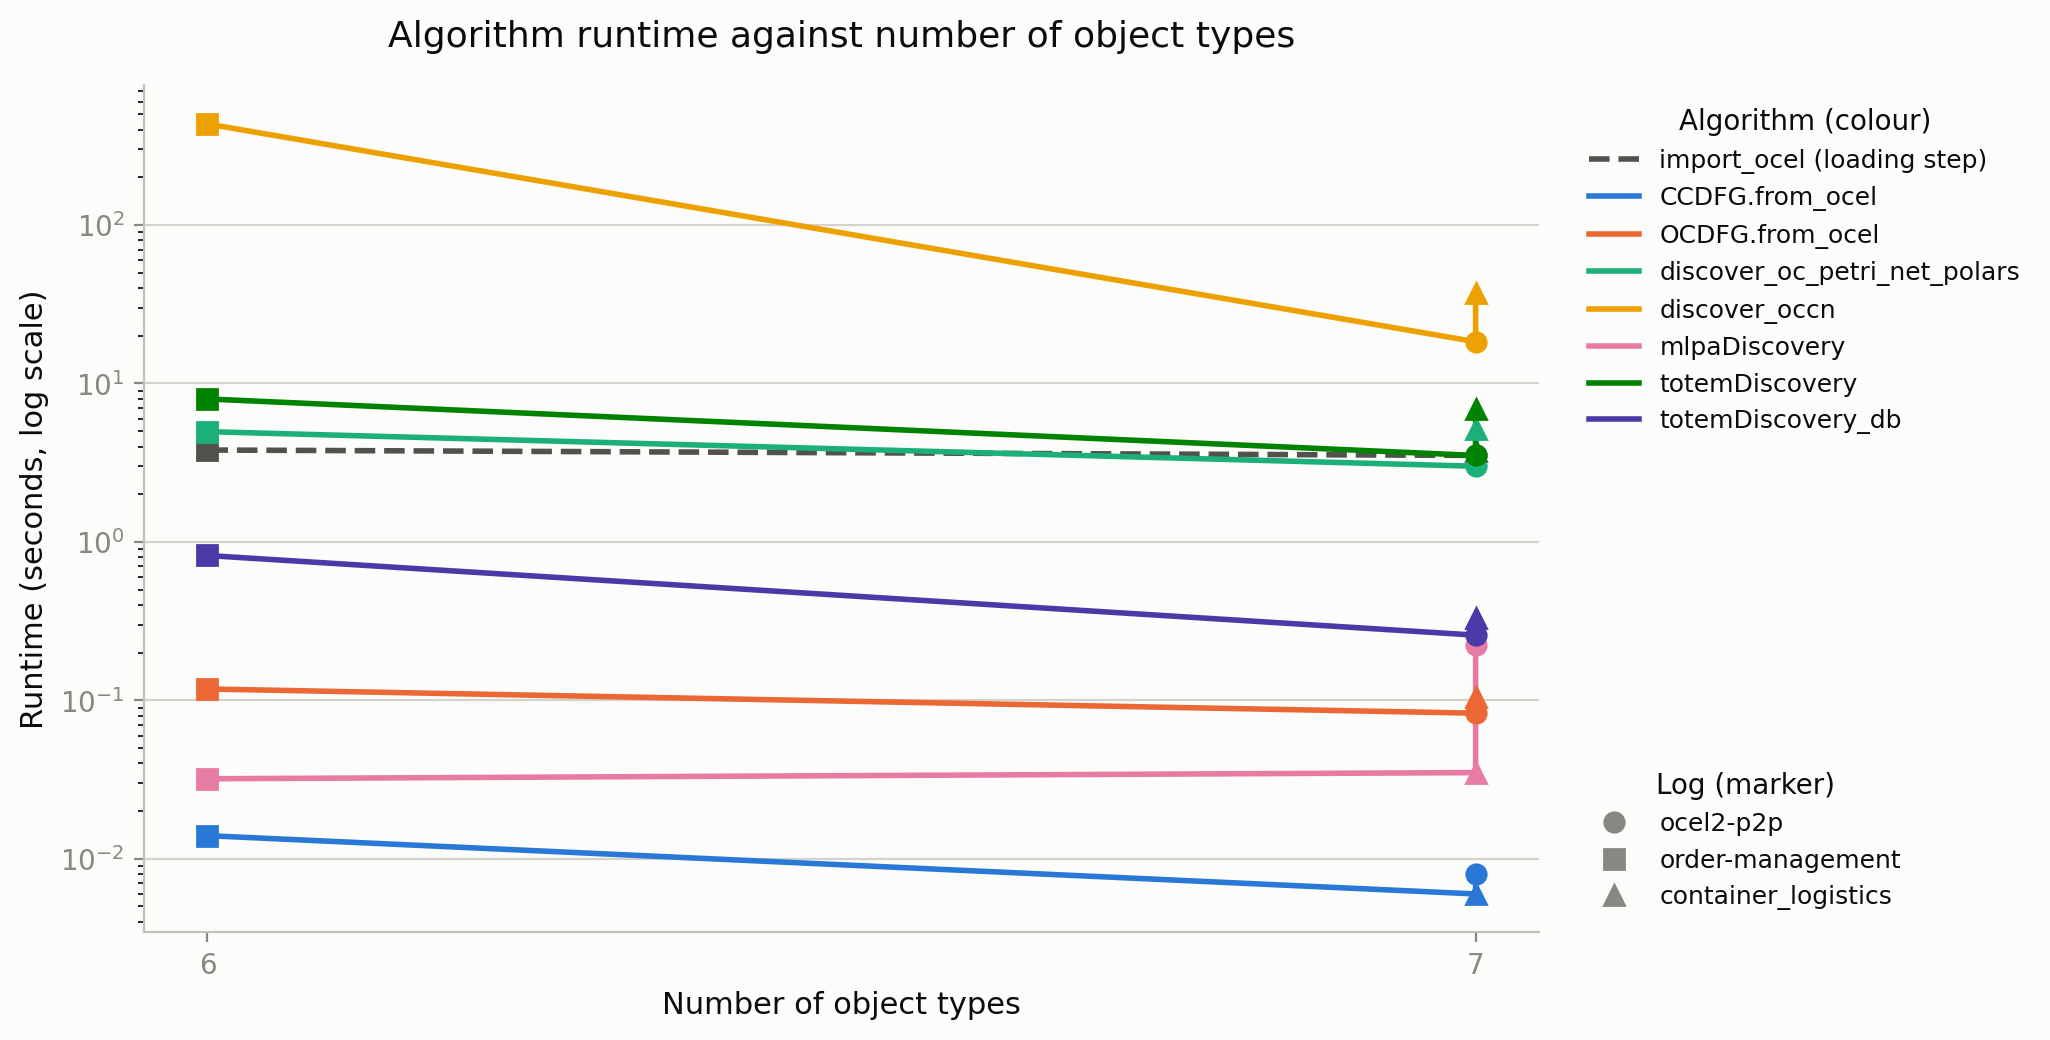
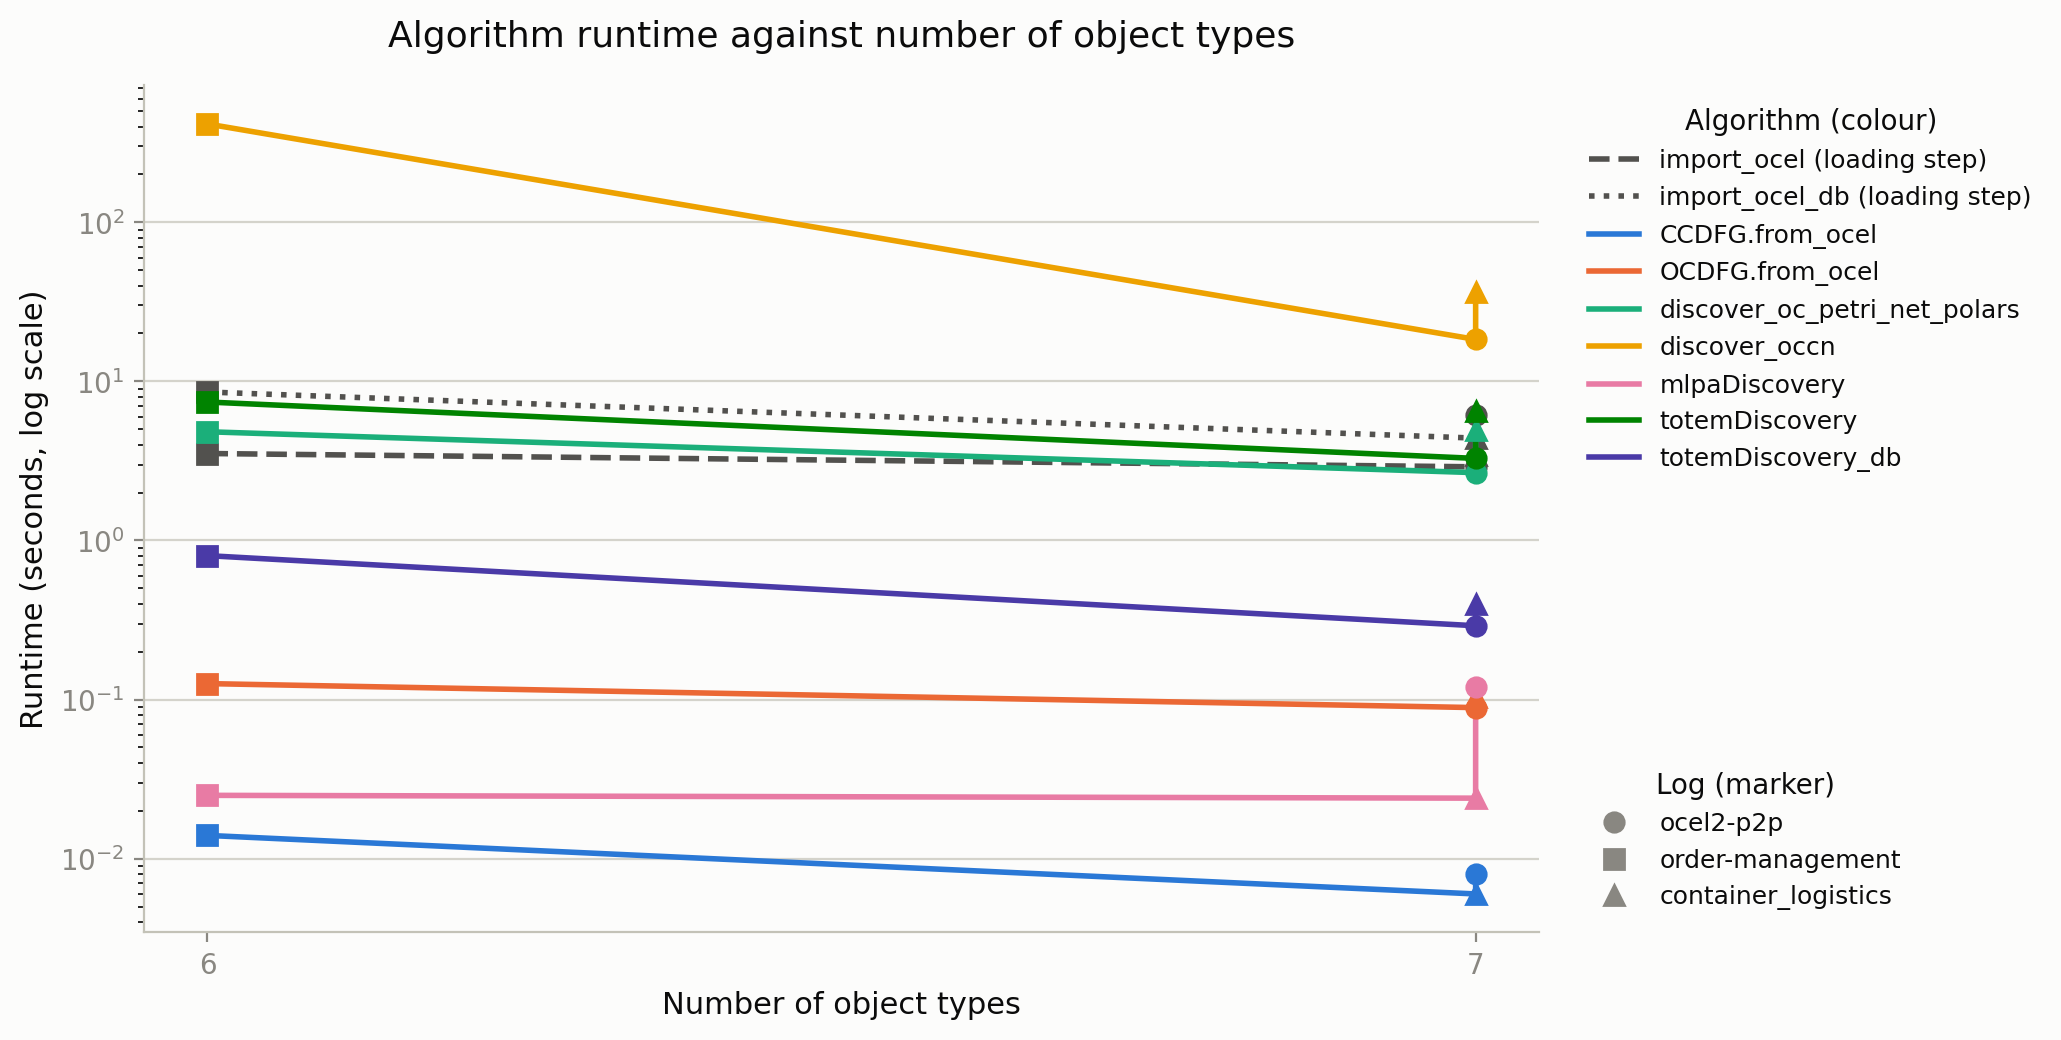
Measure the DuckDB loading step too
The benchmark timed import_ocel but not import_ocel_db. The DuckDB
conversion happened while the inputs were being prepared, so it cost real
seconds that appeared nowhere. import_ocel_db is now an algorithm like
any other, and both loaders are drawn as grey baselines, dashed for
polars and dotted for DuckDB.

ocel_db keeps its database and hands the same one to every algorithm,
which is what they want but wrong for timing: the second repeat would
find the work already done. fresh_db_import builds a new copy per call.

Showing the loading changes the conclusion. totemDiscovery_db beats
totemDiscovery by 9x to 17x on its own, and that is what the previous
README claimed. But loading into DuckDB is the slower of the two loaders,
so the whole job is 0.96x, 1.17x and 2.08x on the three logs - slightly
slower than polars on the smallest one. The win grows with log size, so
DuckDB still looks right for large logs, and one load feeding many
algorithms is where it pays off.

Results and figures regenerated at three repeats on an idle machine.

diff --git a/totem_lib/evaluation/plots.py b/totem_lib/evaluation/plots.py
@@ -13,9 +13,10 @@ scale with different things, so one x-axis is not enough.
 The y-axis is logarithmic because runtimes here span five orders of magnitude, from
 0.008 s to over 900 s. On a linear axis every fast algorithm sits flat on zero.
 
-import_ocel is drawn as a grey dashed baseline rather than as one of the coloured
-lines. It is the loading step all the other algorithms build on, and it is mostly file
-parsing, so it is a different kind of measurement.
+The two loading steps, import_ocel and import_ocel_db, are drawn as grey baselines
+rather than coloured lines. They are what the other algorithms build on, and they are
+mostly file parsing, so they are a different kind of measurement. import_ocel is dashed
+and import_ocel_db is dotted.
 
 Colours are the validated categorical palette, assigned in a fixed order so an algorithm
 keeps its colour even if a run covers only some of them. Three of the colours are light
@@ -49,8 +50,12 @@ from evaluation.datasets import LOGS, SIZE_METRICS, LogStatistics  # noqa: E402
 FIGURES_DIR = Path(__file__).resolve().parent.parent / "figures"
 FILE_PREFIX = "runtime_vs_"
 
-# The algorithm drawn as a baseline instead of a coloured series.
-BASELINE_ALGORITHM = "import_ocel"
+# The loading steps, drawn as grey baselines instead of coloured series. Each maps to
+# the line style that tells the two apart.
+BASELINE_ALGORITHMS = {
+    "import_ocel": "--",
+    "import_ocel_db": ":",
+}
 
 # Validated categorical palette. Never reorder or cycle this: each algorithm takes the
 # next free slot, so it keeps its colour across runs.
@@ -149,10 +154,10 @@ def series_for(rows: Sequence, metric: str) -> dict[str, list[tuple[int, float, 
     return {name: sorted(points) for name, points in series.items()}
 
 
-def _logs_in(series: Mapping, baseline) -> set[str]:
+def _logs_in(series: Mapping, baseline_points) -> set[str]:
     """Every log that actually has a point in this figure."""
     drawn = {log for points in series.values() for _, _, log in points}
-    return drawn | {log for _, _, log in (baseline or [])}
+    return drawn | {log for _, _, log in (baseline_points or [])}
 
 
 def markers_for_logs(rows: Sequence) -> dict[str, str]:
@@ -209,10 +214,13 @@ def plot_metric(rows: Sequence, metric: str, path: Path) -> Path:
                 zorder=zorder + 1,
             )
 
-    # The baseline is drawn first so the coloured lines sit on top of it.
-    baseline = series.pop(BASELINE_ALGORITHM, None)
-    if baseline:
-        draw(baseline, BASELINE_COLOR, BASELINE_ALGORITHM + " (loading step)", "--", 2)
+    # Baselines are drawn first so the coloured lines sit on top of them.
+    baselines = []
+    for name, style in BASELINE_ALGORITHMS.items():
+        points = series.pop(name, None)
+        if points:
+            draw(points, BASELINE_COLOR, name + " (loading step)", style, 2)
+            baselines += points
 
     for index, name in enumerate(sorted(series)):
         color = SERIES_COLORS[index % len(SERIES_COLORS)]
@@ -259,7 +267,7 @@ def plot_metric(rows: Sequence, metric: str, path: Path) -> Path:
         axes.add_artist(algorithms)
         legends.append(algorithms)
 
-        drawn_logs = [name for name in log_markers if name in _logs_in(series, baseline)]
+        drawn_logs = [name for name in log_markers if name in _logs_in(series, baselines)]
         log_handles = [
             Line2D([], [], color=TICKS, marker=log_markers[name], linestyle="none",
                    markersize=7, label=name)

diff --git a/totem_lib/evaluation/algorithms.py b/totem_lib/evaluation/algorithms.py
@@ -19,6 +19,7 @@ from __future__ import annotations
 import sys
 from dataclasses import dataclass
 from functools import partial
+from itertools import count
 from pathlib import Path
 from typing import Any, Callable, Sequence
 
@@ -98,11 +99,34 @@ class LogContext:
         leaves scratch files beside its database.
         """
         if self._ocel_db is None:
-            if self._db_dir is None:
-                self._db_dir = tempfile.mkdtemp(prefix="totem-eval-")
-            db_path = Path(self._db_dir) / f"{self.log.name}.duckdb"
+            db_path = Path(self._scratch_dir()) / f"{self.log.name}.duckdb"
             self._ocel_db = import_ocel_db(str(self.log.path), db_path=str(db_path))
         return self._ocel_db
+
+    def _scratch_dir(self) -> str:
+        """Where throwaway DuckDB files go. Removed by close()."""
+        if self._db_dir is None:
+            self._db_dir = tempfile.mkdtemp(prefix="totem-eval-")
+        return self._db_dir
+
+    def fresh_db_import(self) -> Callable[[], Any]:
+        """
+        A call that builds a new DuckDB copy every time it runs.
+
+        `ocel_db` keeps its database and hands the same one to every algorithm, which
+        is what those algorithms want. It is wrong for timing the conversion though:
+        the second repeat would find the work already done and measure nothing. So
+        each call here writes its own file.
+        """
+        counter = count()
+
+        def convert():
+            path = Path(self._scratch_dir()) / f"timed-{next(counter)}.duckdb"
+            db = import_ocel_db(str(self.log.path), db_path=str(path))
+            db.close()
+            return path
+
+        return convert
 
     @property
     def totem(self):
@@ -166,6 +190,7 @@ class Algorithm:
 
 ALGORITHMS: tuple[Algorithm, ...] = (
     Algorithm("import_ocel", lambda c: partial(import_ocel, *import_args(c.log))),
+    Algorithm("import_ocel_db", lambda c: c.fresh_db_import()),
     Algorithm("totemDiscovery", lambda c: partial(totemDiscovery, c.ocel)),
     Algorithm("totemDiscovery_db", lambda c: partial(totemDiscovery_db, c.ocel_db)),
     Algorithm("mlpaDiscovery", lambda c: partial(mlpaDiscovery, c.totem)),

diff --git a/totem_lib/evaluation/run_benchmarks.py b/totem_lib/evaluation/run_benchmarks.py
@@ -12,11 +12,18 @@ Costs vary enormously, and not with the number of events. Averages of three runs
 idle machine:
 
     algorithm       ocel2-p2p (14.7k)  order-management (21k)  container_logistics (35.4k)
-    discover_occn            18.3 s              434.7 s                  37.5 s
-    totemDiscovery            3.5 s                8.0 s                   6.9 s
-    totemDiscovery_db        0.26 s               0.82 s                  0.33 s
-    OCDFG.from_ocel          0.08 s               0.12 s                  0.11 s
+    discover_occn            18.4 s              415.2 s                  36.6 s
+    import_ocel_db            6.1 s                8.6 s                   4.4 s
+    totemDiscovery            3.3 s                7.4 s                   6.5 s
+    import_ocel               2.9 s                3.5 s                   3.5 s
+    totemDiscovery_db        0.29 s               0.80 s                  0.40 s
+    OCDFG.from_ocel          0.09 s               0.13 s                  0.10 s
     find_variants             1.6 s        out of memory            not measured
+
+Both loaders are measured. A Polars algorithm costs import_ocel plus its own time, a
+DuckDB one costs import_ocel_db plus its own. That matters: totemDiscovery_db beats
+totemDiscovery by 9x to 17x on its own, but loading into DuckDB is the slower of the two
+loaders, so the whole job is only 0.96x to 2.08x - slightly slower on the smallest log.
 
 order-management is the smaller log of the last two, yet it is where the slow algorithms
 blow up. It has the most event-to-object relations by far (147k, against 74k), which is

diff --git a/totem_lib/tests/test_algorithms.py b/totem_lib/tests/test_algorithms.py
@@ -38,6 +38,9 @@ def _log(**overrides) -> EvaluationLog:
 def test_every_algorithm_named_by_the_issue_is_registered():
     expected = {
         "import_ocel",
+        # Not in the issue's list. Added so the DuckDB loading step is measured too,
+        # instead of happening for free while the inputs are prepared.
+        "import_ocel_db",
         "totemDiscovery",
         "totemDiscovery_db",
         "mlpaDiscovery",

diff --git a/totem_lib/README.md b/totem_lib/README.md
@@ -113,11 +113,15 @@ example `--formats md`. Each run overwrites the previous files. The generated JS
 gitignored; the Markdown and CSV are not, so an example run can be committed.
 
 It also saves one plot per size metric to `figures/`, named
-`runtime_vs_<metric>.png`. Each figure uses two channels: the line **colour** says which algorithm, the
-**marker shape** says which log a point came from. Runtime is on a log scale because the
-algorithms differ by five orders of magnitude, and `import_ocel` is drawn as a grey
-dashed baseline because it is the loading step the others build on, not a discovery
-algorithm.
+`runtime_vs_<metric>.png`. Each figure uses two channels: the line **colour** says which
+algorithm, the **marker shape** says which log a point came from. Runtime is on a log
+scale because the algorithms differ by five orders of magnitude.
+
+The two loading steps are drawn as grey baselines rather than coloured lines, because
+they are what the other algorithms build on rather than discovery algorithms themselves.
+`import_ocel` is dashed and reads the log into Polars; `import_ocel_db` is dotted and
+reads the same file into DuckDB. Which one applies depends on the algorithm: five of
+them need the Polars log, two need the DuckDB one.
 
 Use `--no-figures` for a quick partial run: a filtered run would otherwise overwrite the
 committed figures with incomplete data. To rebuild the figures from the saved results
@@ -141,10 +145,10 @@ algorithm that cannot complete (see below):
 
 ```bash
 python evaluation/run_benchmarks.py --repeats 3 \
-  --algorithms import_ocel,totemDiscovery,totemDiscovery_db,mlpaDiscovery,discover_oc_petri_net_polars,discover_occn,OCDFG.from_ocel,CCDFG.from_ocel
+  --algorithms import_ocel,import_ocel_db,totemDiscovery,totemDiscovery_db,mlpaDiscovery,discover_oc_petri_net_polars,discover_occn,OCDFG.from_ocel,CCDFG.from_ocel
 ```
 
-That takes about 25 minutes, almost all of it `discover_occn` on `order-management`.
+That takes about 30 minutes, almost all of it `discover_occn` on `order-management`.
 
 - [`evaluation/results/benchmark_results.md`](evaluation/results/benchmark_results.md) — the tables
 - [`evaluation/results/benchmark_results.csv`](evaluation/results/benchmark_results.csv) — the same rows, for tools
@@ -169,9 +173,24 @@ Compare the two figures side by side:
 - [runtime against events](figures/runtime_vs_num_events.png) — the misleading view
 - [runtime against event-to-object relations](figures/runtime_vs_num_e2o_relations.png) — the explanatory one
 
-`totemDiscovery_db` is also worth noting: it runs 10x to 21x faster than the Polars
-`totemDiscovery` on every log (3.5 s to 0.26 s, 8.0 s to 0.82 s, 6.9 s to 0.33 s). Both
-read the same OCEL file, so this is a like-for-like comparison.
+### DuckDB is fast, but the loading is not free
+
+`totemDiscovery_db` looks dramatically faster than the Polars `totemDiscovery` — 9x to
+17x on the algorithm alone. That is real, but on its own it is misleading, because the
+two need different loaders and loading into DuckDB costs more.
+
+| Log | Loading | Algorithm alone | Whole job |
+|---|---|---|---|
+| `ocel2-p2p` | 2.90 s / 6.12 s | 3.28 s / 0.29 s = 11.3x | 6.18 s / 6.41 s = **0.96x** |
+| `order-management` | 3.52 s / 8.58 s | 7.42 s / 0.80 s = 9.2x | 10.94 s / 9.38 s = **1.17x** |
+| `container_logistics` | 3.46 s / 4.40 s | 6.53 s / 0.40 s = 16.5x | 9.99 s / 4.79 s = **2.08x** |
+
+(Polars / DuckDB.)
+
+Read end to end, the advantage shrinks a lot, and on the smallest log it disappears — the
+whole job is slightly *slower* through DuckDB. The win grows with the log, so DuckDB
+still looks like the better bet as logs get bigger. But one load feeding many algorithms
+is where it pays off, not one load feeding one algorithm.
 
 ### How to read the numbers
 
@@ -193,6 +212,9 @@ read the same OCEL file, so this is a like-for-like comparison.
   not byte-identical though: the Polars importer filters out objects the DuckDB one
   keeps, so `ocel2-p2p` has 9,543 objects on the DuckDB side against 9,054 on the Polars
   side. Event counts and labels match everywhere.
+- **Both loaders are timed, so compare like with like.** A Polars algorithm costs
+  `import_ocel` plus its own time; a DuckDB one costs `import_ocel_db` plus its own. The
+  algorithm rows on their own leave the loading out.
 - **Re-running with `--logs` or `--algorithms` overwrites these files** with partial
   data. Regenerate the committed example only from the full command.
 

diff --git a/totem_lib/evaluation/results/benchmark_results.md b/totem_lib/evaluation/results/benchmark_results.md
@@ -1,6 +1,6 @@
 # Benchmark Results
 
-Generated 2026-09-03 09:52, 3 repeat(s) per algorithm
+Generated 2026-09-10 09:14, 3 repeat(s) per algorithm
 
 Peak RAM comes from `tracemalloc`, which only sees Python allocations. Polars and DuckDB work mostly in native memory, so these numbers understate what those algorithms really use.
 
@@ -16,27 +16,30 @@ Peak RAM comes from `tracemalloc`, which only sees Python allocations. Polars an
 
 | Log | Events | Algorithm | Time (s) | Peak RAM (MB) |
 |---|---|---|---|---|
-| ocel2-p2p | 14,671 | import_ocel | 3.516 | 87.45 |
-| ocel2-p2p | 14,671 | totemDiscovery | 3.512 | 38.4 |
-| ocel2-p2p | 14,671 | totemDiscovery_db | 0.258 | 0.09 |
-| ocel2-p2p | 14,671 | mlpaDiscovery | 0.224 | 0.08 |
-| ocel2-p2p | 14,671 | discover_oc_petri_net_polars | 3.004 | 28.96 |
-| ocel2-p2p | 14,671 | discover_occn | 18.344 | 116.31 |
-| ocel2-p2p | 14,671 | OCDFG.from_ocel | 0.083 | 0.2 |
+| ocel2-p2p | 14,671 | import_ocel | 2.904 | 87.45 |
+| ocel2-p2p | 14,671 | import_ocel_db | 6.119 | 87.33 |
+| ocel2-p2p | 14,671 | totemDiscovery | 3.28 | 38.4 |
+| ocel2-p2p | 14,671 | totemDiscovery_db | 0.291 | 0.09 |
+| ocel2-p2p | 14,671 | mlpaDiscovery | 0.12 | 0.08 |
+| ocel2-p2p | 14,671 | discover_oc_petri_net_polars | 2.669 | 29.01 |
+| ocel2-p2p | 14,671 | discover_occn | 18.354 | 116.31 |
+| ocel2-p2p | 14,671 | OCDFG.from_ocel | 0.089 | 0.2 |
 | ocel2-p2p | 14,671 | CCDFG.from_ocel | 0.008 | 0.1 |
-| order-management | 21,008 | import_ocel | 3.803 | 94.81 |
-| order-management | 21,008 | totemDiscovery | 7.987 | 74.13 |
-| order-management | 21,008 | totemDiscovery_db | 0.821 | 0.08 |
-| order-management | 21,008 | mlpaDiscovery | 0.032 | 0.04 |
-| order-management | 21,008 | discover_oc_petri_net_polars | 4.967 | 92.28 |
-| order-management | 21,008 | discover_occn | 434.734 | 253.73 |
-| order-management | 21,008 | OCDFG.from_ocel | 0.118 | 0.61 |
+| order-management | 21,008 | import_ocel | 3.521 | 94.81 |
+| order-management | 21,008 | import_ocel_db | 8.576 | 94.8 |
+| order-management | 21,008 | totemDiscovery | 7.418 | 74.13 |
+| order-management | 21,008 | totemDiscovery_db | 0.803 | 0.09 |
+| order-management | 21,008 | mlpaDiscovery | 0.025 | 0.04 |
+| order-management | 21,008 | discover_oc_petri_net_polars | 4.824 | 92.32 |
+| order-management | 21,008 | discover_occn | 415.166 | 253.58 |
+| order-management | 21,008 | OCDFG.from_ocel | 0.126 | 0.61 |
 | order-management | 21,008 | CCDFG.from_ocel | 0.014 | 0.14 |
-| container_logistics | 35,372 | import_ocel | 3.759 | 70.44 |
-| container_logistics | 35,372 | totemDiscovery | 6.912 | 75.24 |
-| container_logistics | 35,372 | totemDiscovery_db | 0.332 | 0.1 |
-| container_logistics | 35,372 | mlpaDiscovery | 0.035 | 0.04 |
-| container_logistics | 35,372 | discover_oc_petri_net_polars | 5.189 | 54.82 |
-| container_logistics | 35,372 | discover_occn | 37.487 | 217.99 |
-| container_logistics | 35,372 | OCDFG.from_ocel | 0.105 | 0.79 |
+| container_logistics | 35,372 | import_ocel | 3.461 | 70.44 |
+| container_logistics | 35,372 | import_ocel_db | 4.399 | 70.43 |
+| container_logistics | 35,372 | totemDiscovery | 6.525 | 75.24 |
+| container_logistics | 35,372 | totemDiscovery_db | 0.396 | 0.1 |
+| container_logistics | 35,372 | mlpaDiscovery | 0.024 | 0.04 |
+| container_logistics | 35,372 | discover_oc_petri_net_polars | 4.92 | 54.83 |
+| container_logistics | 35,372 | discover_occn | 36.567 | 217.98 |
+| container_logistics | 35,372 | OCDFG.from_ocel | 0.104 | 0.79 |
 | container_logistics | 35,372 | CCDFG.from_ocel | 0.006 | 0.04 |
